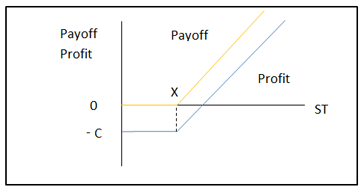
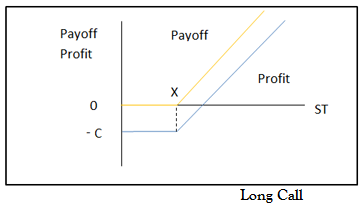
add caption on the payoff diagrams

diff --git a/src/view/TradeStrategyView.java b/src/view/TradeStrategyView.java
@@ -265,7 +265,7 @@ public class TradeStrategyView extends javax.swing.JFrame {
 
         payoff_scroll.setViewportView(payoff_pane);
 
-        payoff_scroll.setBounds(20, 90, 1200, 230);
+        payoff_scroll.setBounds(20, 90, 1200, 240);
         jLayeredPane.add(payoff_scroll, javax.swing.JLayeredPane.DEFAULT_LAYER);
 
         symbol_combo.setModel(new javax.swing.DefaultComboBoxModel(new String[] { "Item 1", "Item 2", "Item 3", "Item 4" }));
